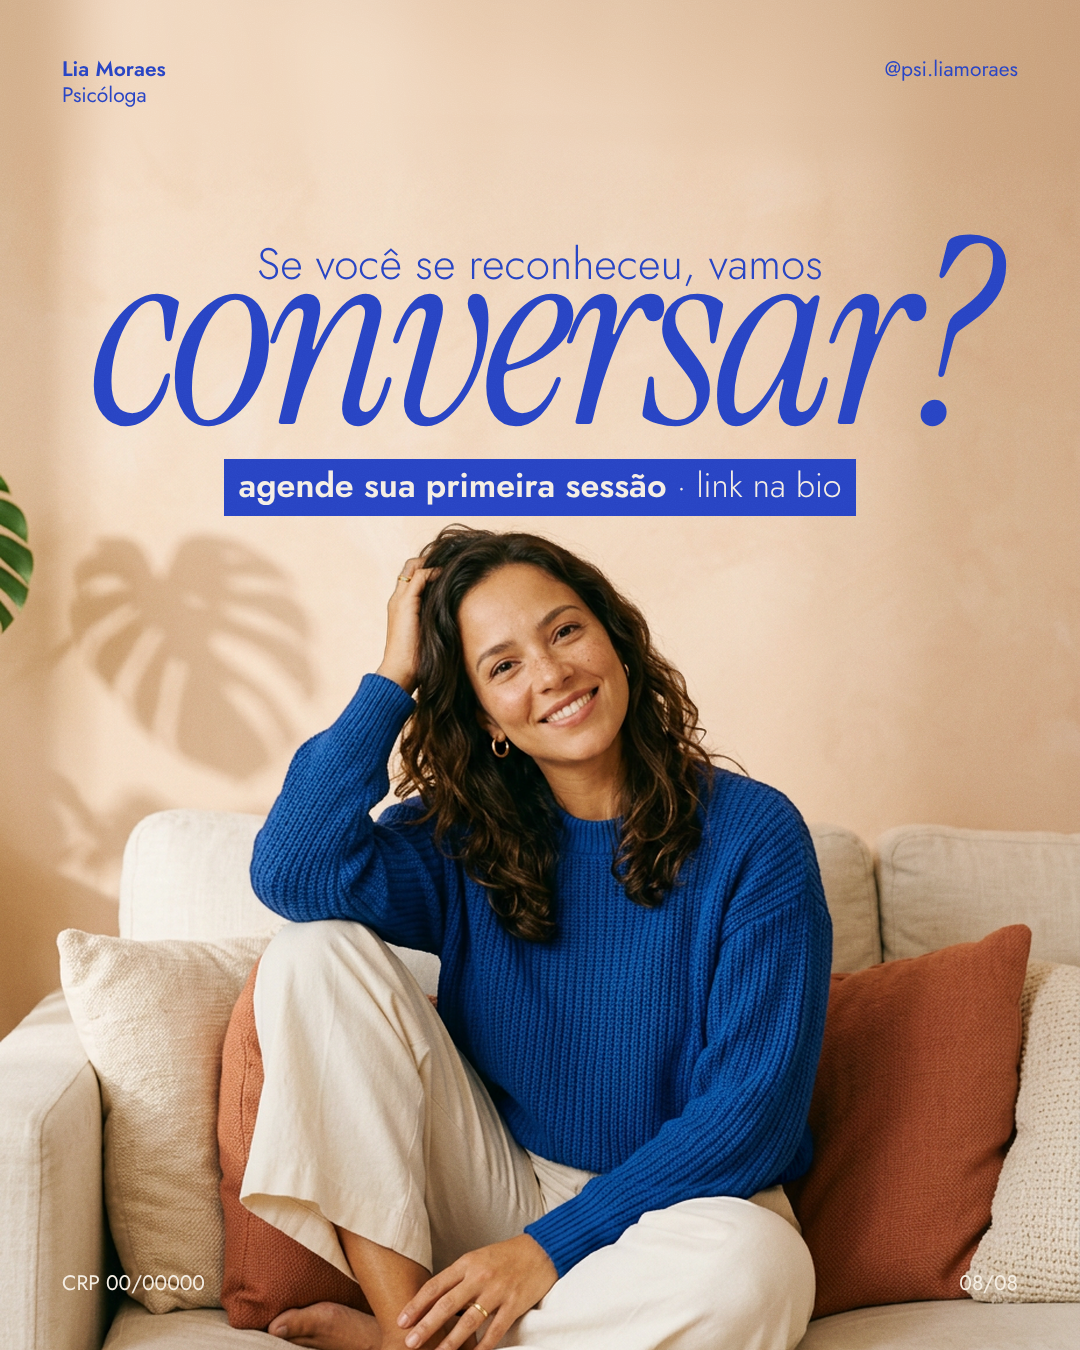
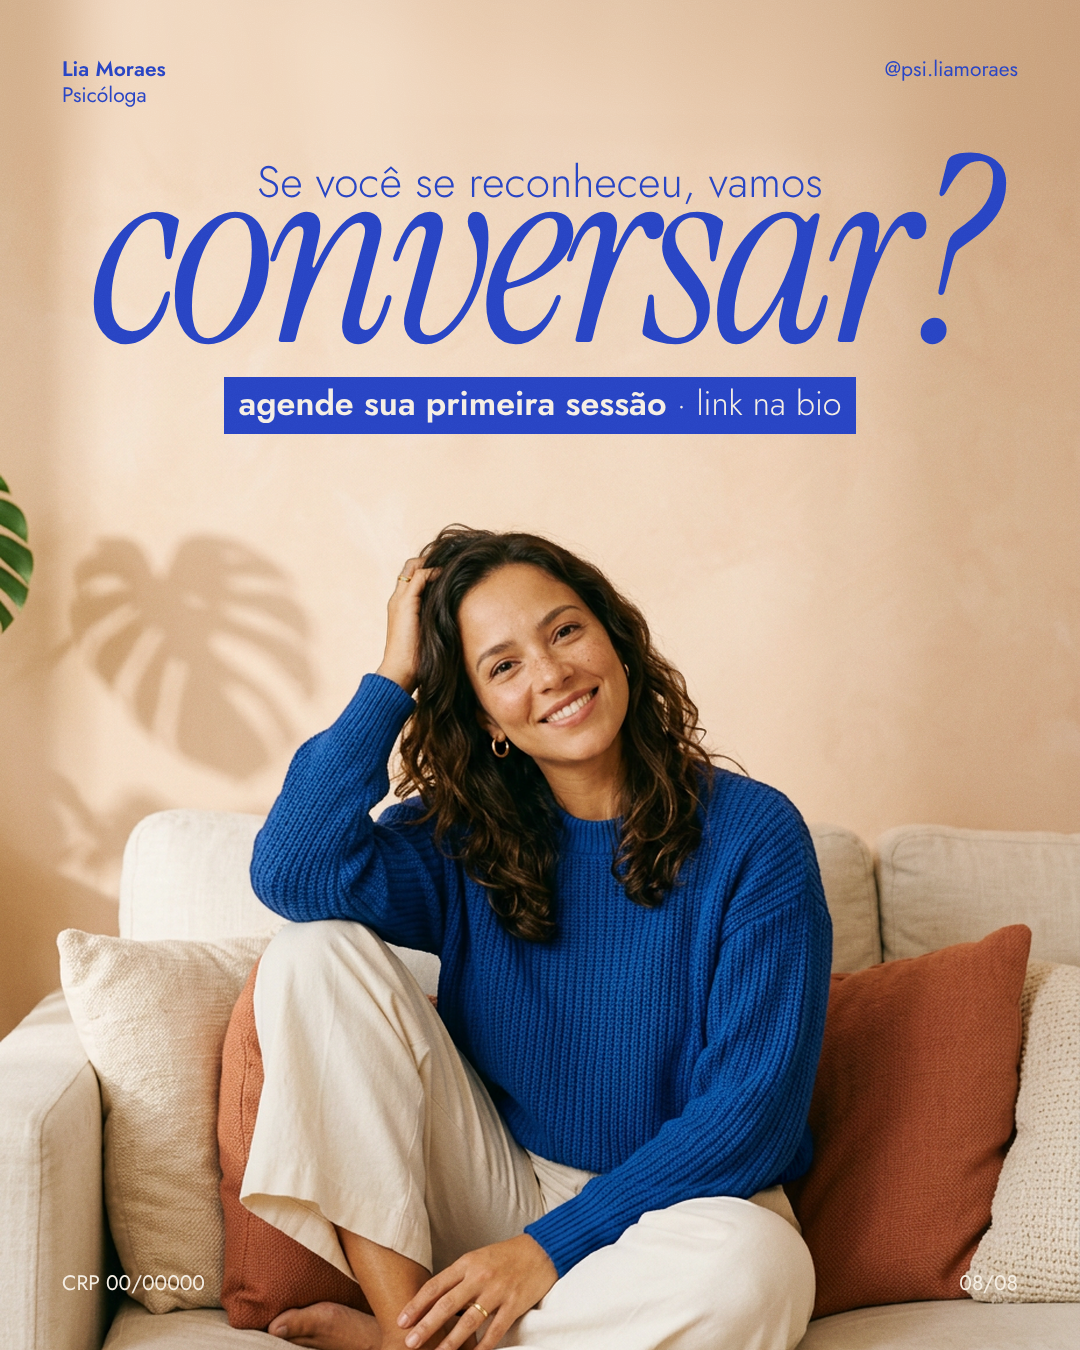
Lia Moraes: bloco do último slide mais alto
Claude-Session: https://claude.ai/code/session_01CmCiK8Gv7bd1khyaxwEQLc

diff --git a/psicologa-lia-moraes/projeto/posts/carrossel-v3.html b/psicologa-lia-moraes/projeto/posts/carrossel-v3.html
@@ -158,7 +158,7 @@ body{background:#777;padding:20px;display:flex;gap:20px;flex-wrap:wrap}
   <img class="f" src="../fotos-pinterest/base/lia-sofa-v1-baixo.png">
   <div class="canto tl"><b>Lia Moraes</b><br>Psicóloga</div>
   <div class="canto tr">@psi.liamoraes</div>
-  <div class="bloco" id="b8" style="top:232px">
+  <div class="bloco" id="b8" style="top:150px">
     <span class="js" style="font-size:44px">Se você se reconheceu, vamos</span>
     <span class="is" style="font-size:240px;margin-top:-66px" data-fit="900"><i>conversar?</i></span>
     <span class="js" style="font-size:34px;margin-top:14px"><span class="faixa"><b>agende sua primeira sessão</b> · link na bio</span></span>
